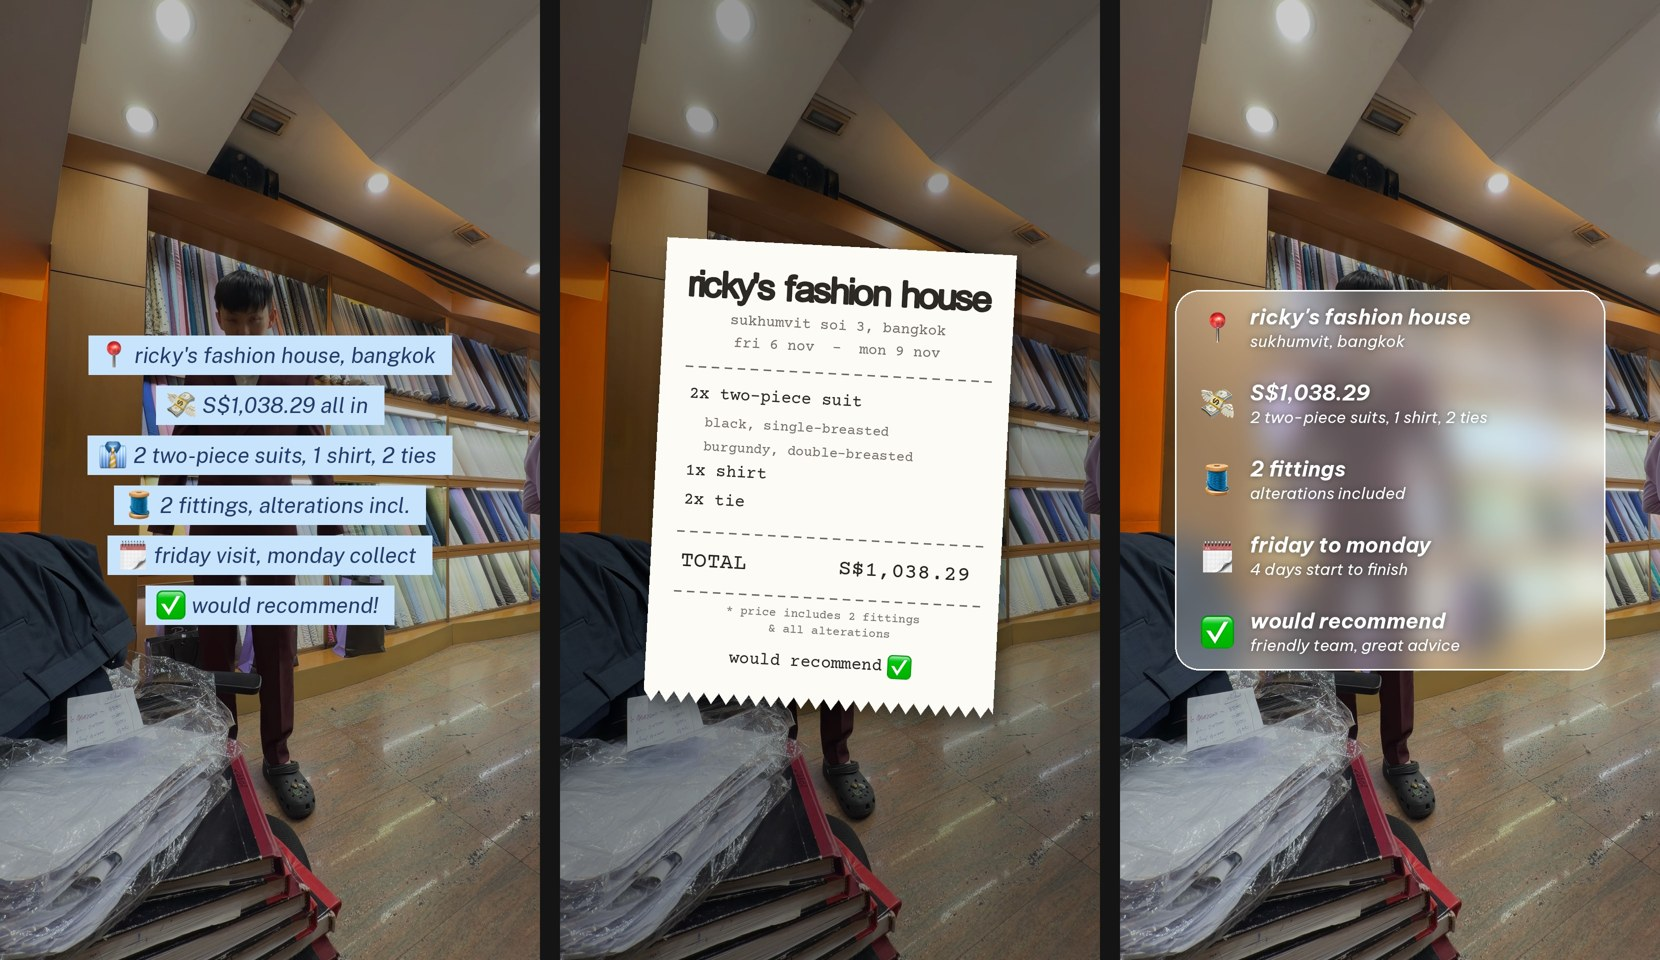
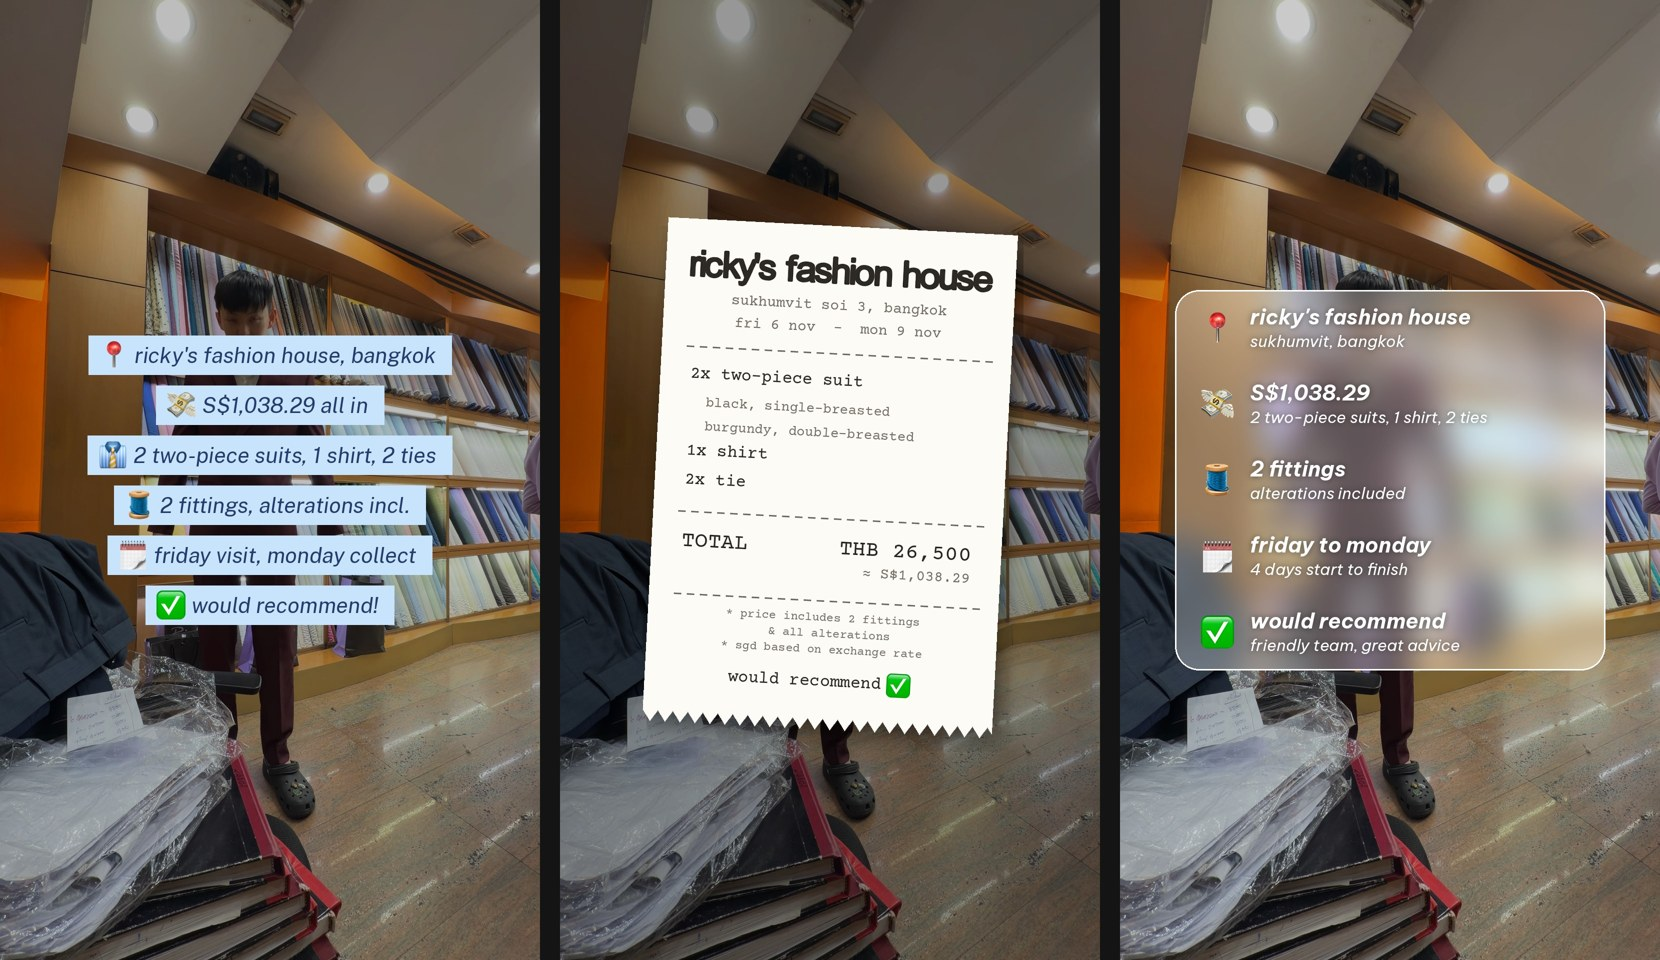
Receipt: THB 26,500 total with SGD equivalent; script mentions baht
Claude-Session: https://claude.ai/code/session_01T9Xb58pVenXMcWoNtDPL6M

Changed region(s): [[0.3994, 0.2188, 0.6145, 0.5938], [0.3687, 0.5625, 0.6145, 0.7812]]

diff --git a/episodes/ep01_suit/infocard_options.py b/episodes/ep01_suit/infocard_options.py
@@ -39,7 +39,7 @@ im.convert('RGB').save(OUT / 'info_A_tags.jpg', quality=90)
 # --- B: receipt -----------------------------------------------------------------
 im = base(0.6)
 mono = lambda n: ImageFont.truetype(str(FONTS / 'CourierPrime-Regular.ttf'), n)
-rw, rh = 700, 905
+rw, rh = 700, 985
 r = Image.new('RGBA', (rw, rh + 30), (0, 0, 0, 0))
 d = ImageDraw.Draw(r)
 d.rectangle((0, 0, rw, rh), fill=(253, 251, 245))
@@ -66,10 +66,14 @@ for a, b in items:
     y += 48 if small else 58
 dash(y + 5)
 d.text((60, y + 65), 'TOTAL', font=mono(44), fill=ink, anchor='lm')
-d.text((rw - 60, y + 65), 'S$1,038.29', font=mono(44), fill=ink, anchor='rm')
+d.text((rw - 60, y + 65), 'THB 26,500', font=mono(44), fill=ink, anchor='rm')
+d.text((rw - 60, y + 112), '≈ S$1,038.29', font=mono(30), fill=soft, anchor='rm')
+y += 45
 dash(y + 125)
 d.text((rw / 2, y + 160), '* price includes 2 fittings', font=mono(24), fill=soft, anchor='mm')
 d.text((rw / 2, y + 192), '  & all alterations', font=mono(24), fill=soft, anchor='mm')
+d.text((rw / 2, y + 224), '* sgd based on exchange rate', font=mono(24), fill=soft, anchor='mm')
+y += 32
 rec, ef, eg = 'would recommend', mono(34), 48                # centre text + emoji as one unit
 rx = (rw - (ef.getlength(rec) + 12 + eg)) / 2
 d.text((rx, y + 255), rec, font=ef, fill=ink, anchor='lm')

diff --git a/episodes/ep01_suit/storyboard.md b/episodes/ep01_suit/storyboard.md
@@ -26,7 +26,7 @@ Target length: about 1:20–1:30. Vertical 9:16. No music (sound added in TikTok
 >
 > i came back that same night for my first fitting in a skeleton suit, and again on saturday, where they fixed the length of the pants and tightened the shirt. i even asked for a little extra room, since i'm back at the gym.
 >
-> by monday, everything fit perfectly, and they even handed me a beer. two suits, a shirt and two ties came up to about a thousand sgd, alterations included. would i recommend them? one hundred percent. all the details are on screen. see you in episode two.
+> by monday, everything fit perfectly, and they even handed me a beer. two suits, a shirt and two ties came up to twenty-six thousand five hundred baht, so about a thousand sgd, alterations included. would i recommend them? one hundred percent. all the details are on screen. see you in episode two.
 
 (about 235 words, roughly 1:25–1:30)
 
